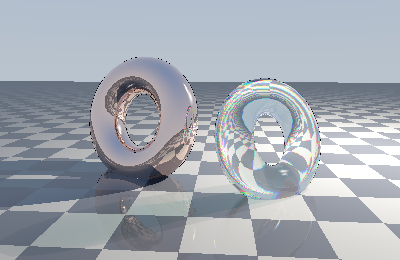
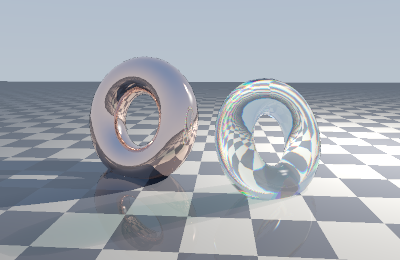
Re-render the torus example at 2x2 samples
examples/torus.png was traced at one sample per pixel; this replaces it
with a 2x2 one.  That is a change to the picture rather than to how its
bytes are stored, which is why it is not folded into the re-encoding
beside it.  It also takes the file from 312 348 bytes to 72 961, but
that is the smaller half of the point.

The reason is worth stating carefully, because the obvious reading of it
is wrong.  Re-rendering the scene differs from the committed image on
16.6% of bytes, which looks like the engine having moved underneath an
old render.  It has barely moved: traced at the *original* one sample
the difference is 0.9% of bytes at a mean delta of 0.08, a scattering of
pixels off by one.  Nearly all of the 16.6% is the sampling, not drift.
The full HD frame of the same scene settles it -- re-rendered now, it
comes back byte-identical to the one traced months ago.

So this is an antialiasing improvement to a small showcase image and
nothing more.  The full HD one beside it stays at one sample, which is
what the performance notes quote for that resolution.

diff --git a/README.md b/README.md
@@ -149,10 +149,11 @@ copies of one OBJ at different sizes and angles, wearing different materials:
 ![torus](examples/torus.png)
 
 The same scene at 1920x1080 is
-[`examples/torus_fullhd.png`](examples/torus_fullhd.png). It is 604 kB, and it
-was 6.2 MB until the encoder could compress — the file in the repository is
-that same image put back through `inflate` and re-encoded, not re-rendered, so
-its pixels are the ones the tracer produced.
+[`examples/torus_fullhd.png`](examples/torus_fullhd.png), 604 kB where it was
+6.2 MB before the encoder could compress. That one is an **earlier** render,
+kept exactly as it was rather than re-traced: the file was read back in through
+this engine's own `inflate` and written out again, so its pixels are the ones
+the build of the day produced.
 
 The OBJ reader handles `v`, `vn` and `f`, polygons of any size
 (fan-triangulated), all of the `1`, `1/2`, `1//3` and `1/2/3` corner
